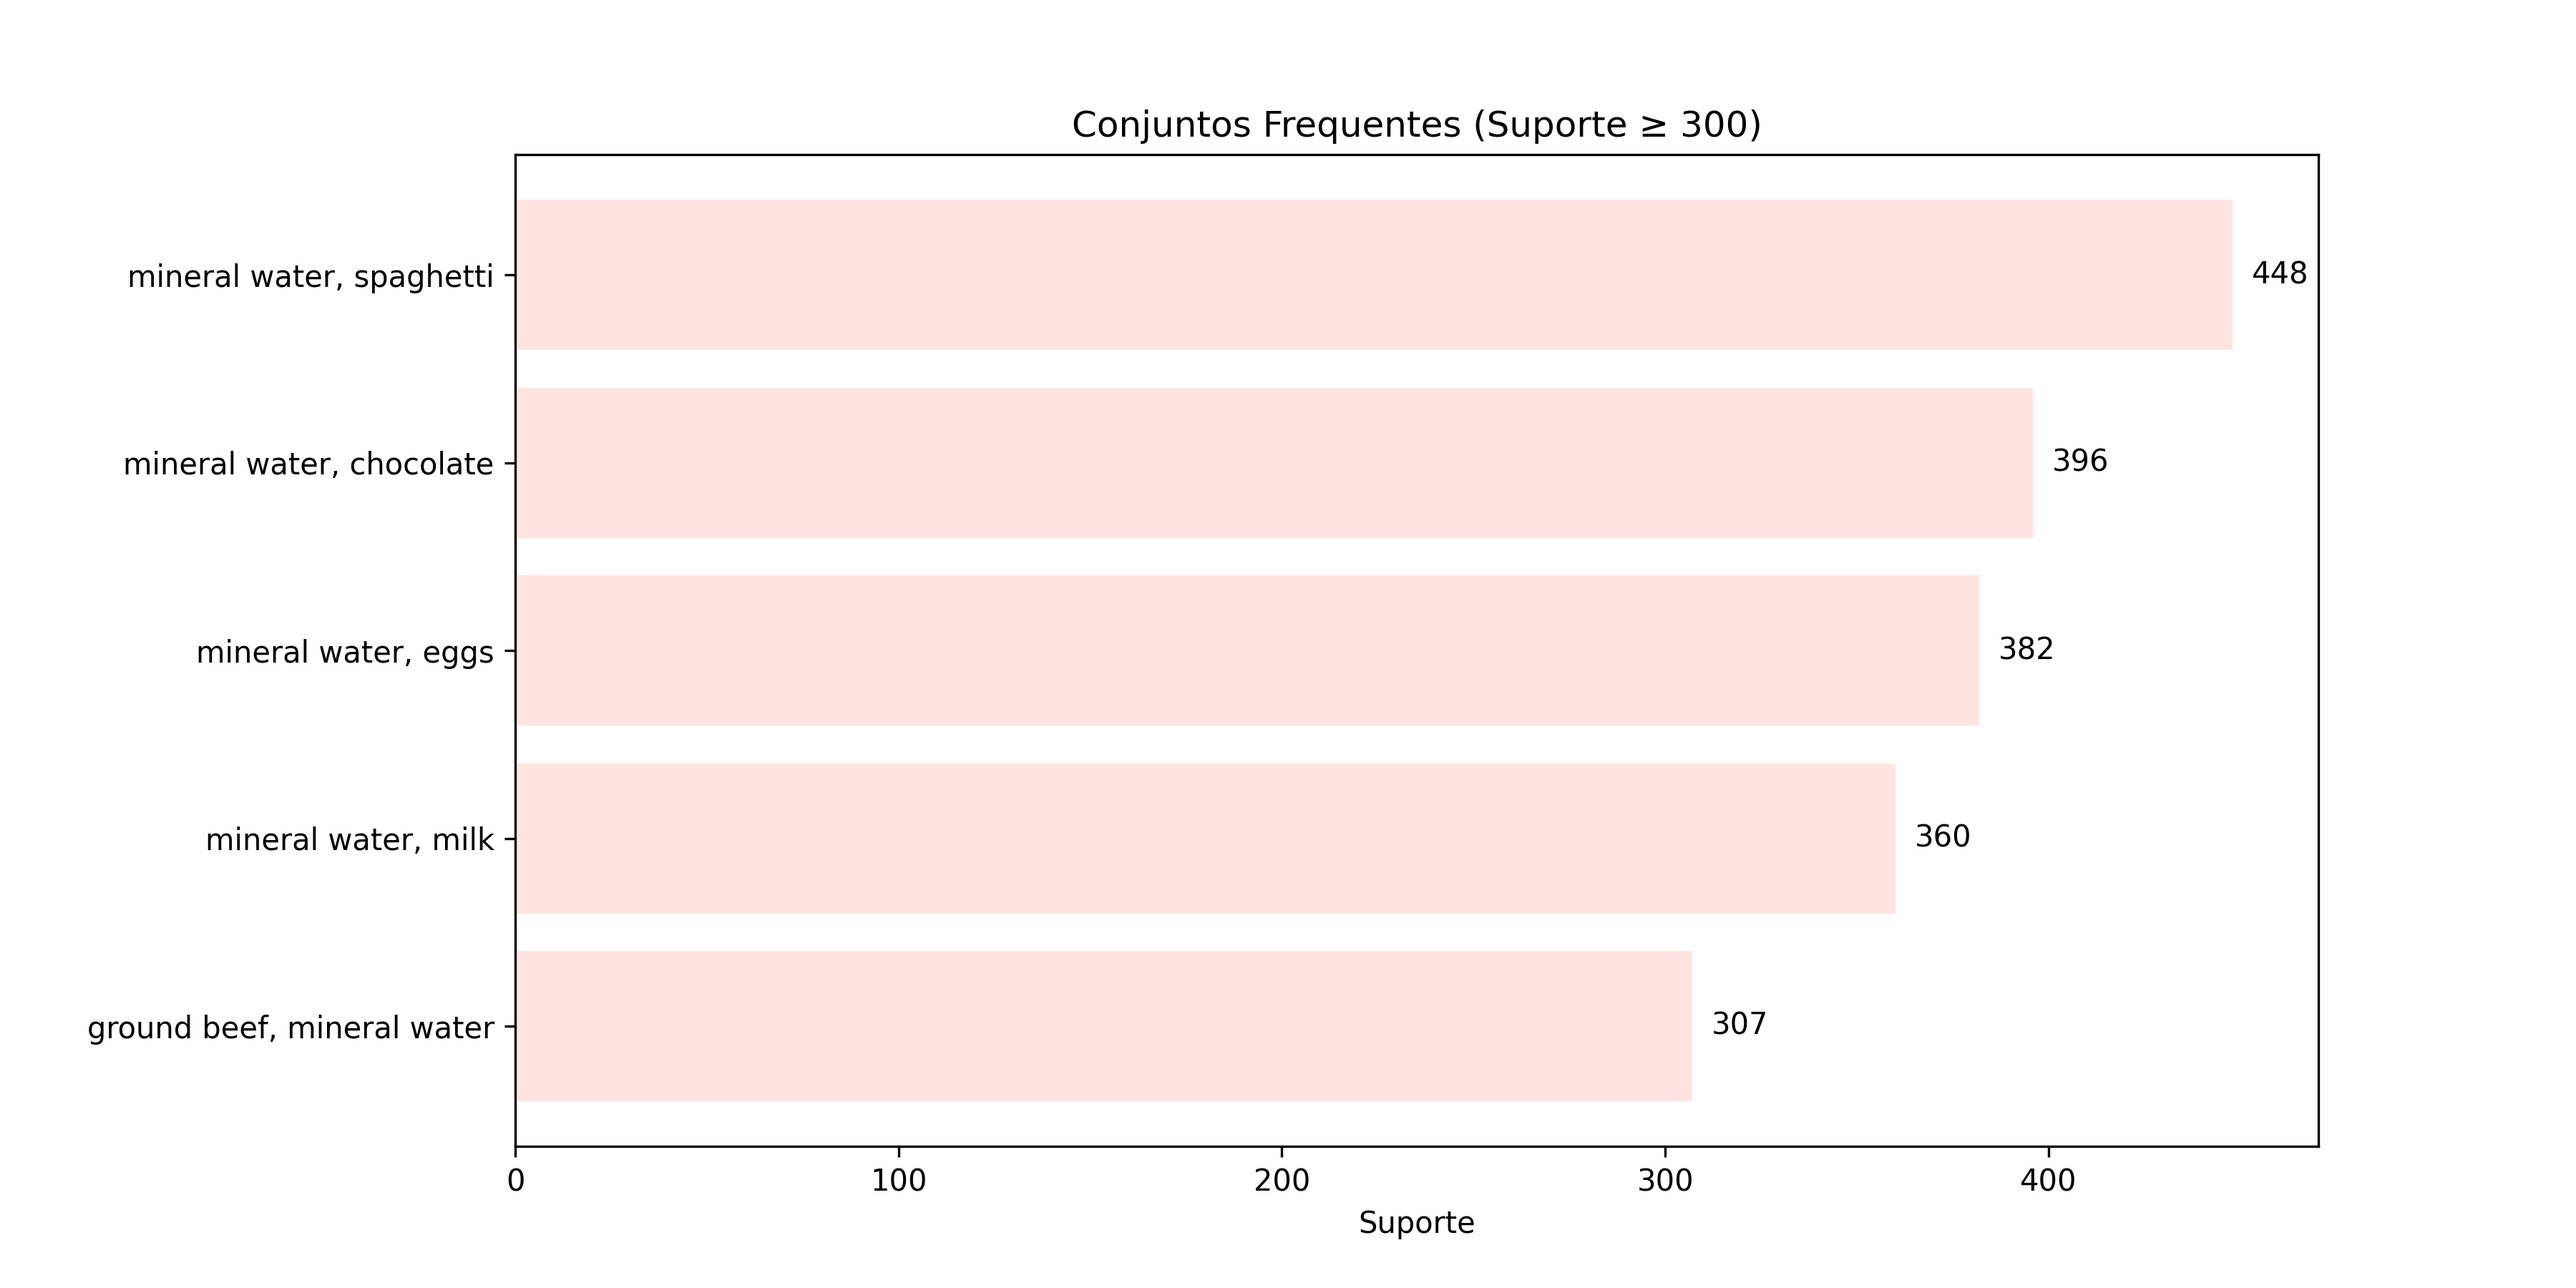
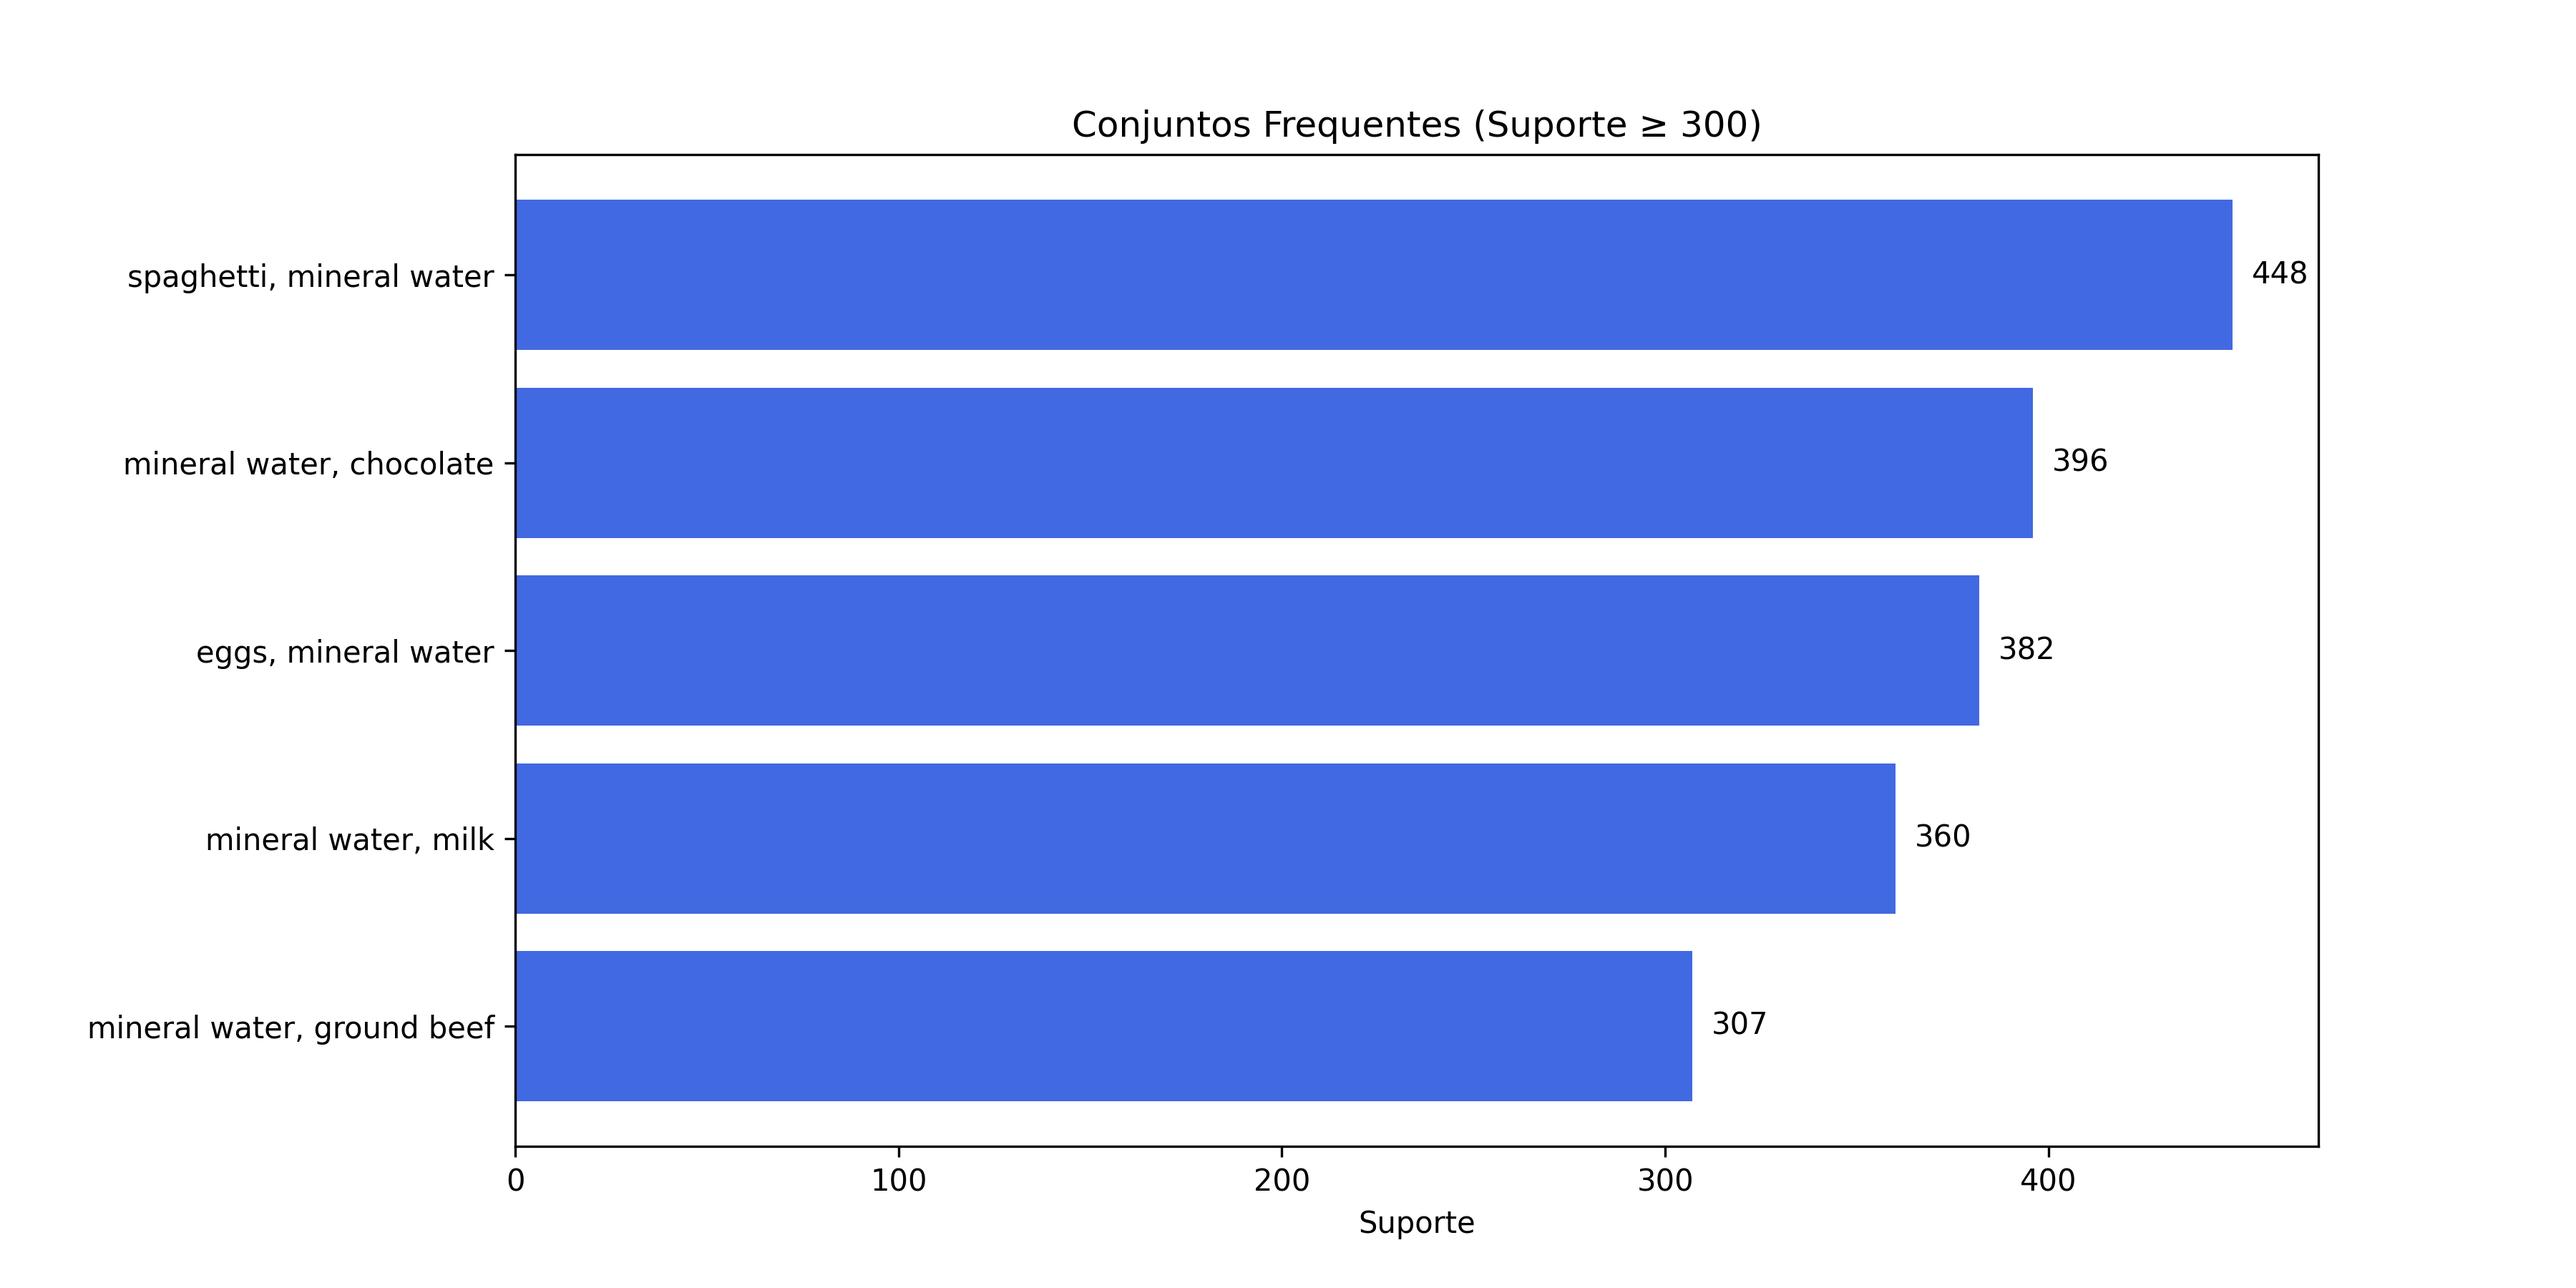
questão 2: DBSCAN para make_moons

diff --git a/questao-2/questao-2.py b/questao-2/questao-2.py
@@ -1,0 +1,98 @@
+"""
+Questão 02 – Considere os dados apresentados abaixo. Escolha um dos algoritmos
+estudados em sala de aula para resolver esse problema.
+"""
+import os
+import numpy as np
+import matplotlib.pyplot as plt
+from sklearn.datasets import make_moons
+
+# Função para calcular distância euclidiana
+def euclidean_distance(a, b):
+    return np.linalg.norm(a - b)
+
+# Retorna índices dos vizinhos no raio eps
+def region_query(X, point_idx, eps):
+    neighbors = []
+    for i, point in enumerate(X):
+        if euclidean_distance(X[point_idx], point) < eps:
+            neighbors.append(i)
+    return neighbors
+
+# Expande o cluster a partir de um ponto núcleo
+def expand_cluster(X, labels, point_idx, cluster_id, eps, min_pts):
+    neighbors = region_query(X, point_idx, eps)
+    if len(neighbors) < min_pts:
+        labels[point_idx] = -1  # Ruído
+        return False
+    else:
+        labels[point_idx] = cluster_id
+        i = 0
+        while i < len(neighbors):
+            neighbor_idx = neighbors[i]
+            if labels[neighbor_idx] == -1:
+                labels[neighbor_idx] = cluster_id
+            elif labels[neighbor_idx] == 0:
+                labels[neighbor_idx] = cluster_id
+                new_neighbors = region_query(X, neighbor_idx, eps)
+                if len(new_neighbors) >= min_pts:
+                    neighbors += new_neighbors
+            i += 1
+        return True
+
+# Algoritmo DBSCAN
+def dbscan(X, eps, min_pts):
+    labels = np.zeros(len(X), dtype=int)
+    cluster_id = 0
+    for i in range(len(X)):
+        if labels[i] != 0:
+            continue
+        if expand_cluster(X, labels, i, cluster_id + 1, eps, min_pts):
+            cluster_id += 1
+    return labels
+
+def plot_graph(X, labels, title, filename):
+    import matplotlib.patches as mpatches
+
+    os.makedirs("questao-2/graficos", exist_ok=True)
+    plt.figure(figsize=(8, 6))
+
+    colors = ['royalblue', 'seagreen']
+    unique_labels = sorted(set(labels))
+    
+    legend_patches = []
+    for i, label in enumerate(unique_labels):
+        color = 'black' if label == -1 else colors[i % len(colors)]
+        cluster_name = 'Ruído' if label == -1 else f'Cluster {label}'
+        mask = labels == label
+        plt.scatter(X[mask, 0], X[mask, 1], c=color, s=20, label=cluster_name)
+        legend_patches.append(mpatches.Patch(color=color, label=cluster_name))
+
+    plt.title(title)
+    plt.xlabel("X")
+    plt.ylabel("Y")
+    plt.legend(handles=legend_patches, title="Clusters", loc="best")
+    plt.grid(True)
+    plt.tight_layout()
+    plt.savefig(f"questao-2/graficos/{filename}", dpi=300)
+    plt.close()
+
+
+if __name__ == "__main__":
+    # Gerar dados com o make_moons
+    X, y = make_moons(n_samples=500, noise=0.06, random_state=23)
+
+    eps = 0.2
+    min_pts = 5
+    labels = dbscan(X, eps, min_pts)
+    plot_graph(X, labels, "Clusters Detectados pelo DBSCAN", "dbscan_clusters.png")
+
+    unique, counts = np.unique(labels, return_counts=True)
+    cluster_stats = dict(zip(unique, counts))
+
+    print("\nQuantidade de pontos por cluster:")
+    for cluster_id, count in sorted(cluster_stats.items()):
+        if cluster_id == -1:
+            print(f"Ruído (-1): {count}")
+        else:
+            print(f"Cluster {cluster_id}: {count}")

diff --git a/questao-1/questao-1.py b/questao-1/questao-1.py
@@ -1,3 +1,8 @@
+"""Questão 01 – Desenvolva um algoritmo FP-Growth para resolver o problema
+Market_Basket_Optimisation (disponível juntamente com a prova). Utilize um suporte
+mínimo de 300 e confiança mínima de 0,3. Apresente os dados analisados, destacando:
+• Os itens que mais aparecem individualmente nas transações;
+• Os conjuntos de itens mais frequentes que ocorrem juntos."""
 import os
 import pandas as pd
 import matplotlib.pyplot as plt
@@ -131,7 +136,7 @@ def plot_graph(data, title, xlabel, filename):
     os.makedirs("questao-1/graficos", exist_ok=True)
 
     plt.figure(figsize=(12, 6))
-    bars = plt.barh(labels[::-1], values[::-1], color='mistyrose')
+    bars = plt.barh(labels[::-1], values[::-1], color='royalblue')
     plt.xlabel(xlabel)
     plt.title(title)
 
